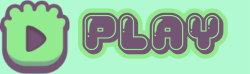
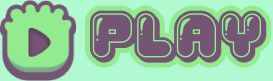
ui 3d

Changed region(s): [[0.308, 0.0541, 1.0, 0.8378]]

diff --git a/scenes/start_menu.py b/scenes/start_menu.py
@@ -1,78 +1,76 @@
-from direct.gui.DirectGui import DirectButton, DirectLabel,DirectFrame, DGG
-from panda3d.core import TextNode
-
+from direct.gui.DirectGui import DirectButton, DirectLabel, DirectFrame, DGG
+from panda3d.core import TextNode, NodePath, GeomNode, Plane, CardMaker
+from panda3d.core import Texture, Vec3
 
 class MainMenu():
-    def __init__(self,base,launch_function):
+    def __init__(self, base,launch_function):
+        super().__init__()
         self.on_launch = launch_function
-        self.base = base
-        self.setup_main_menu()
+        self.main = base
+        self.main.reset()
+        self.main.disableMouse()
+        self.size_factor = 265
 
-    def setup_main_menu(self):
+        self.width = self.main.win.getXSize()
+        self.height = self.main.win.getYSize()
 
+        self.create_bg()
+        self.create_buttons()
 
-        self.aspect_ratio = self.base.getAspectRatio()
-        self.font = self.base.loader.loadFont("ui/Jellies.ttf")
+    def create_bg(self):
 
-        self.base.ui["start_menu"] = []
-
- 
-        self.frame = DirectFrame(
-            frameSize=(-self.aspect_ratio, self.aspect_ratio, -1, 1),  
-            pos=(0, 0, 0) ,
-            sortOrder=1,
-            frameTexture = "ui/bg_green.png"
-        )
-
-        self.title = DirectLabel(
-            text="Main Menu",
-            scale=0.1,
-            pos=(0, 0, 0.7),
-            text_fg=(1, 1, 1, 1),
-            text_align=TextNode.ACenter,
-            parent=self.frame,
-            text_font = self.font
-        )
+        cm = CardMaker("plane")
 
 
-        self.start_button = DirectButton(
-            scale=1, 
-           
-            relief=DGG.FLAT,
-            frameSize=(-1, 1, -0.1, 0.1),
-            pos=(0, 0, 0.2),
-            command=self.start_game,
-            parent=self.frame,
-            frameTexture = self.base.loader.loadTexture("ui/play_icon_text.png"),
-        )
-        self.settings_button = DirectButton(
-            text="Settings",
-            scale=0.08,
-            pos=(0, 0, 0),
-            command=self.show_settings,
-             parent=self.frame,
-            text_font = self.font
-        )
-        self.quit_button = DirectButton(
-            text="Quit",
-            scale=0.08,
-            pos=(0, 0, -0.2),
-            command=self.quit_game,
-            parent=self.frame,
-            text_font = self.font
-        )
+        cm.setFrame(-self.width / self.size_factor, self.width / self.size_factor, -self.height / self.size_factor, self.height / self.size_factor) 
+        plane = self.main.render.attachNewNode(cm.generate())
+        plane.setColor(1, 1, 1, 1)  
 
-        self.base.ui["start_menu"].append(self.frame)
+        texture = self.main.loader.loadTexture("ui/bg_green.png") 
+        plane.setTexture(texture)
+
+        
+        plane.setPos(0, 10, 0)  
+        plane.lookAt(self.main.camera)
+        plane.setHpr(plane.getH() + 180, plane.getP(), plane.getR())
+
+    def create_buttons(self):
+        cm = CardMaker("plane")
+        cm.setFrame(-273 / self.size_factor / 2, 273 / self.size_factor / 2, -81 / self.size_factor / 2, 81 / self.size_factor / 2) 
+        plane = self.main.render.attachNewNode(cm.generate())
+        plane.setColor(1, 1, 1, 1)  
+        plane.setTag("UI", "start_play_button")
+
+        texture = self.main.loader.loadTexture("ui/play_icon_text.png") 
+        plane.setTexture(texture)
+        plane.setPos(0, 7, 0)  
+        plane.lookAt(self.main.camera)
+        plane.setHpr(plane.getH() + 180, plane.getP(), plane.getR())
+        plane.setPos(-2, 7, 0)  
+
+
+        cm = CardMaker("plane")
+        cm.setFrame(-437 / self.size_factor / 2, 437 / self.size_factor / 2, -81 / self.size_factor / 2, 81 / self.size_factor / 2) 
+        plane = self.main.render.attachNewNode(cm.generate())
+        plane.setColor(1, 1, 1, 1)  
+        plane.setTag("UI", "start_play_button")
+
+        texture = self.main.loader.loadTexture("ui/settings_icon_text.png") 
+        plane.setTexture(texture)
+        plane.setPos(0, 7, 0) 
+        plane.lookAt(self.main.camera)
+        plane.setHpr(plane.getH() + 180, plane.getP(), plane.getR())
+        plane.setPos(-2, 7, -0.2)  
+
 
     def start_game(self):
         print("Start Game clicked!")
         self.on_launch()
-
 
     def show_settings(self):
         print("Settings clicked!")
 
     def quit_game(self):
         print("Quit clicked!")
-        self.base.userExit()
+        self.userExit()
 
